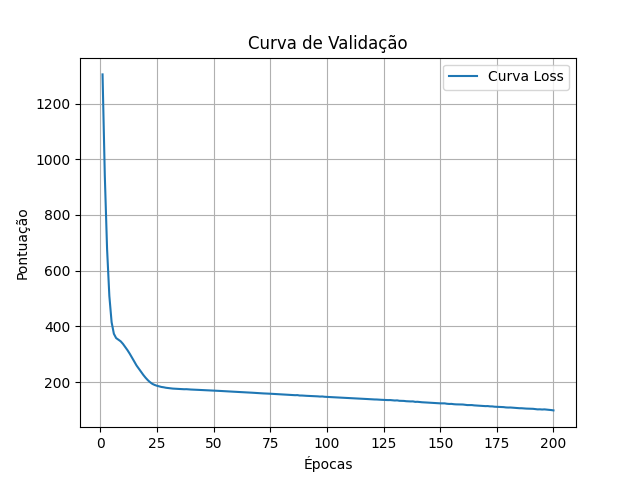
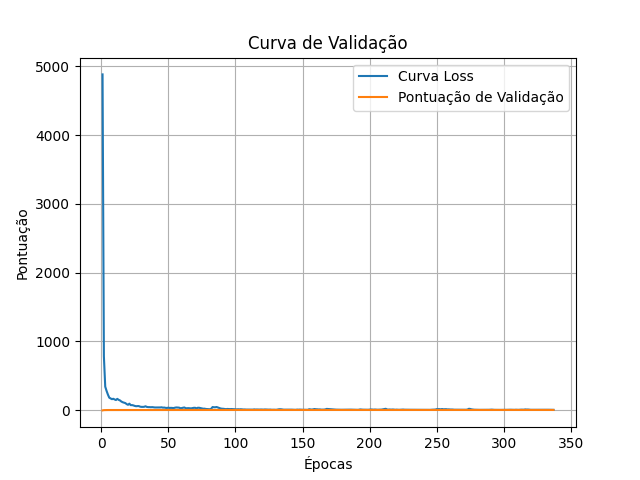
Colocado todas as imagens finais de solucao do algoritmo

diff --git a/rede_neural.py b/rede_neural.py
@@ -14,12 +14,10 @@ def train_continuos_values_hiperparametros_otimizados(x, y):
         quantidade_neuronio_camada.append(100)
 
     param_grid = {
-        "hidden_layer_sizes": [(10, 10), (90, 90), quantidade_neuronio_camada],
-        "activation": ["tanh", "relu"],
-        "solver": ["sgd", "adam"],
+        "hidden_layer_sizes": [(90, 90), quantidade_neuronio_camada],
         "learning_rate": ["constant", "adaptive"],
         "learning_rate_init": [0.001, 0.0001],
-        "max_iter": [100, 1000],
+        "max_iter": [10, 100],
         "n_iter_no_change": [10, 100]
     }
 
@@ -69,12 +67,10 @@ def train_discret_values_hiperparametros_otimizados(x, y):
         quantidade_neuronio_camada.append(100)
 
     param_grid = {
-        "hidden_layer_sizes": [(10, 10), (90, 90), quantidade_neuronio_camada],
-        "activation": ["tanh", "relu"],
-        "solver": ["sgd", "adam"],
+        "hidden_layer_sizes": [(90, 90), quantidade_neuronio_camada],
         "learning_rate": ["constant", "adaptive"],
         "learning_rate_init": [0.001, 0.0001],
-        "max_iter": [100, 1000],
+        "max_iter": [10, 100],
         "n_iter_no_change": [10, 100]
     }
 
@@ -95,14 +91,14 @@ def train_discret_values_hiperparametros_otimizados(x, y):
 
     accuracy = accuracy_score(y_test, y_pred)
     print(f'Acurácia do modelo: {accuracy:.2f}')
-    # best_loss = model.best_loss_
-    # print(f'Melhor Loss: {best_loss:.2f}')
+    best_loss = model.best_loss_
+    print(f'Melhor Loss: {best_loss:.2f}')
 
     loss_curve = model.loss_curve_
-    validation_curve = model.validation_scores_
+    # validation_curve = model.validation_scores_
 
     plt.plot(range(1, len(loss_curve) + 1), loss_curve, label='Curva Loss')
-    plt.plot(range(1, len(validation_curve) + 1), validation_curve, label='Pontuacao de Validacao')
+    # plt.plot(range(1, len(validation_curve) + 1), validation_curve, label='Pontuacao de Validacao')
     plt.title('Curva de pontuacao Hiperparametros Padroes')
     plt.xlabel('Epocas')
     plt.ylabel('Pontuacao')
@@ -226,5 +222,5 @@ y_classe = y_classe.reset_index(drop=True)
 
 # train_continuos_values(x, y)
 # train_discret_values(x, y_classe.values)
-# train_continuos_values_hiperparametros_otimizados(x, y)
-train_discret_values_hiperparametros_otimizados(x, y_classe.values)
+train_continuos_values_hiperparametros_otimizados(x, y)
+# train_discret_values_hiperparametros_otimizados(x, y_classe.values)
